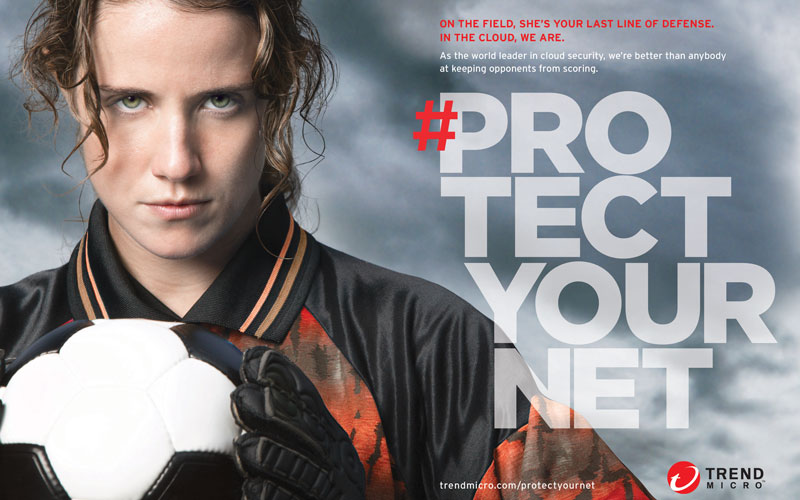
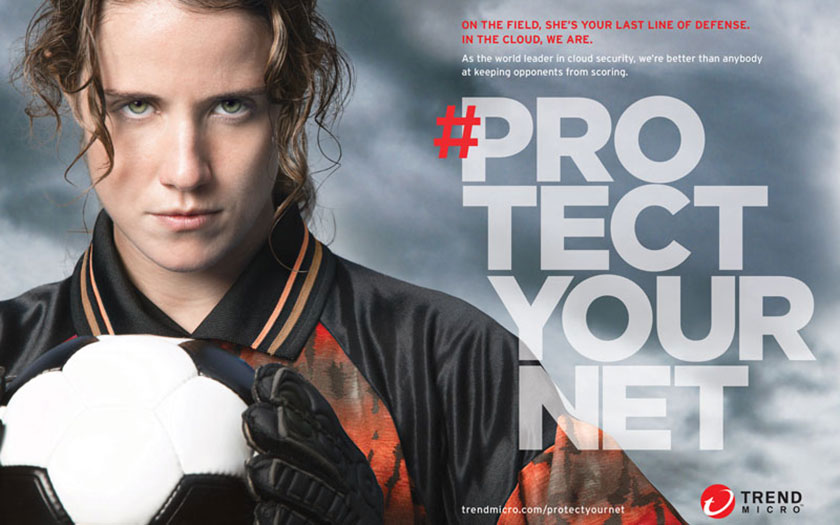
feat(add):project5.html

diff --git a/alexmasonry/ajax/project5.html b/alexmasonry/ajax/project5.html
@@ -1,53 +1,59 @@
 <div class="project-hero">
-    <img src="http://scriptpie.com/cubeportfolio/img/?i=1200x300/f0dd51" alt="">
+    <img class="object-fit_cover" src="img/trend-micro-fan-zone-hero.jpg" alt="Closeup of goalkeeper on cloudy background">
 </div>
 
-<div class="project-wrapper">
-<div class="cbp-l-project-title">The Laramie Project</div>
 
-
-<div class="cbp-l-project-container style="max-width: 800px"">
-    <div class="cbp-l-project-details">
-        <div class="cbp-l-project-details-title"><span>Project Details</span></div>
-
-        <ul class="cbp-l-project-details-list">
-            <li><strong>Client</strong>Algonquin College Theatre Arts</li>
-            <li><strong>Services</strong><a href="http://www.alexandermartin.ca/alexmasonry/index.html">Graphic Design</a></li>
-        </ul>
+<div class="cbp-l-project-container project-wrapper">
+    <div class="cbp-l-project-header">
+        <div class="cbp-l-project-subtitle"><h3>Graphic Design</h3></div>
+        <div class="cbp-l-project-title"><h2>#ProtectYourNet</h2></div>
     </div>
+
     <div class="cbp-l-project-desc">
-<!--         <div class="cbp-l-project-desc-title"><span>Project Description</span></div>
- -->        <div class="cbp-l-project-desc-text">Lorem ipsum dolor sit amet, consectetur adipisicing elit. Accusantium, cumque, earum blanditiis incidunt minus commodi consequatur provident quae. Nihil, alias, vel consequatur ab aliquam aspernatur optio harum facilis excepturi mollitia autem voluptas cum ex veniam numquam quia repudiandae in iure. Assumenda, vel provident molestiae perferendis officia commodi asperiores earum sapiente inventore quam deleniti mollitia consequatur expedita quaerat natus praesentium beatae aut ipsa non ex ullam atque suscipit ut dignissimos magnam!</div>
+        <div class="cbp-l-project-desc-intro">
+            <span>While working at McMillan, I had the opportunity to design branded assets for a Trend Micro sponsorship campaign.</span>
+        </div>
+         <div class="cbp-l-project-desc-text">
+            <p>We were tasked to design a print advertisement for Trend Micro that would be presented in the <strong>FIFA Women's World Cup 2015</strong> program guide deeming them the unofficial sponsor of all goalkeepers at the games. They would also have booths in Ottawa and Vancouver during the event where they would provide awareness on internet security.</p><p>I worked closely with Art/Creative Directors who came up with the original artwork and concept, <em>#ProtectYourNet</em>, for the campaign. Photo retouching, branding and web design were essential skills I employed while adhering closely to brand guidelines and the <em>#ProtectYourNet</em> campaign identity.</p></div>
     </div>
 </div>
 
-<div class="cbp-l-project-container">
-    <div class="cbp-l-project-related">
-        <div class="cbp-l-project-desc-title"><span>Related Projects</span></div>
+        <div class="image-block">
+            <img class="cbp-l-project-img" src="img/trend-micro-fan-zone1.jpg" alt="#ProtectYourNet program advertisement layout">
+        </div>
+        <div class="image-block">
+            <img class="cbp-l-project-img" src="img/trend-micro-fan-zone5.gif" alt="#ProtectYourNet survey microsite">
+        </div>
+        <div class="image-block">
+            <img class="cbp-l-project-img" src="img/trend-micro-fan-zone3.jpg" alt="#ProtectYourNet fan zone photo wall">
+        </div>
 
-        <ul class="cbp-l-project-related-wrap">
-            <li class="cbp-l-project-related-item">
-                <a href="ajax-masonry-projects/project12.html" class="cbp-singlePage cbp-l-project-related-link" rel="nofollow">
-                    <img src="http://scriptpie.com/cubeportfolio/img/?i=380x250/ab19cd" alt="">
-                    <div class="cbp-l-project-related-title">Speed Detector</div>
-                </a>
-            </li>
-            <li class="cbp-l-project-related-item">
-                <a href="ajax-masonry-projects/project2.html" class="cbp-singlePage cbp-l-project-related-link" rel="nofollow">
-                    <img src="http://scriptpie.com/cubeportfolio/img/?i=380x250/2d3e6d" alt="">
-                    <div class="cbp-l-project-related-title">World Clock Widget</div>
-                </a>
-            </li>
-            <li class="cbp-l-project-related-item">
-                <a href="ajax-masonry-projects/project3.html" class="cbp-singlePage cbp-l-project-related-link" rel="nofollow">
-                    <img src="http://scriptpie.com/cubeportfolio/img/?i=380x250/b08497" alt="">
-                    <div class="cbp-l-project-related-title">To-Do Dashboard</div>
-                </a>
-            </li>
-        </ul>
+    <div class="cbp-l-project-container project-wrapper">
+        <div class="cbp-l-project-related">
+            <div class="cbp-l-project-desc-title"><span>Related Projects</span></div>
 
+            <ul class="cbp-l-project-related-wrap">
+                <li class="cbp-l-project-related-item">
+                    <a href="ajax/project4.html" class="cbp-singlePage cbp-l-project-related-link" rel="nofollow">
+                        <img src="img/riding-hood-related.jpg" alt="Illustration of Little Red Riding Hood">
+                        <div class="cbp-l-project-related-title">Little Red Riding Hood</div>
+                    </a>
+                </li>
+                <li class="cbp-l-project-related-item">
+                    <a href="ajax/project6.html" class="cbp-singlePage cbp-l-project-related-link" rel="nofollow">
+                        <img src="img/folgers-related.jpg" alt="Medium closeup photograph of Folgers package">
+                        <div class="cbp-l-project-related-title">Folgers Packaging</div>
+                    </a>
+                </li>
+                <li class="cbp-l-project-related-item">
+                    <a href="ajax/project5.html" class="cbp-singlePage cbp-l-project-related-link" rel="nofollow">
+                        <img src="protect-your-net-related.jpg" alt="Closeup of #ProtectYourNet photowall">
+                        <div class="cbp-l-project-related-title">#ProtectYourNet</div>
+                    </a>
+                </li>
+            </ul>
+        </div>
     </div>
-</div>
 
 <br><br><br>
 </div>

diff --git a/alexmasonry/ajax/project6.html b/alexmasonry/ajax/project6.html
@@ -2,21 +2,21 @@
     <img class="object-fit_cover" src="img/folgers-hero.jpg" alt="Closeup Folgers Packaging">
 </div>
 
-<!-- <div class="project-wrapper"> -->
-    <div class="cbp-l-project-container project-wrapper">
+
+<div class="cbp-l-project-container project-wrapper">
     <div class="cbp-l-project-header">
         <div class="cbp-l-project-subtitle"><h3>Graphic Design</h3></div>
         <div class="cbp-l-project-title"><h2>Folgers Packaging</h2></div>
     </div>
 
-        <div class="cbp-l-project-desc">
-            <div class="cbp-l-project-desc-intro">
-                <span>This package concept revitalizes Folgers as a premium brand of coffee by using the company’s unique selling proposition as a central motivation for the design.</span>
-            </div>
-             <div class="cbp-l-project-desc-text">
-                <p>The oval contour stands out amongst shelves of rectangular coffee containers, while the creative front and back panels blossom to reveal branded burlap sacks containing vacuum packed coffee.</p></div>
+    <div class="cbp-l-project-desc">
+        <div class="cbp-l-project-desc-intro">
+            <span>This package concept revitalizes Folgers as a premium brand of coffee by using the company’s unique selling proposition as a central motivation for the design.</span>
         </div>
+         <div class="cbp-l-project-desc-text">
+            <p>The oval contour stands out amongst shelves of rectangular coffee containers, while the creative front and back panels blossom to reveal branded burlap sacks containing vacuum packed coffee.</p></div>
     </div>
+</div>
 
         <div class="image-block">
             <img class="cbp-l-project-img" src="img/folgers-flat.jpg" alt="Folger package flattened on a backdrop">

diff --git a/alexmasonry/ajax/project1.html b/alexmasonry/ajax/project1.html
@@ -43,9 +43,9 @@
                     </a>
                 </li>
                 <li class="cbp-l-project-related-item">
-                    <a href="ajax/project3.html" class="cbp-singlePage cbp-l-project-related-link" rel="nofollow">
-                        <img src="http://scriptpie.com/cubeportfolio/img/?i=380x250/b08497" alt="">
-                        <div class="cbp-l-project-related-title">To-Do Dashboard</div>
+                    <a href="ajax/project5.html" class="cbp-singlePage cbp-l-project-related-link" rel="nofollow">
+                        <img src="protect-your-net-related.jpg" alt="Closeup of #ProtectYourNet photowall">
+                        <div class="cbp-l-project-related-title">#ProtectYourNet</div>
                     </a>
                 </li>
             </ul>
